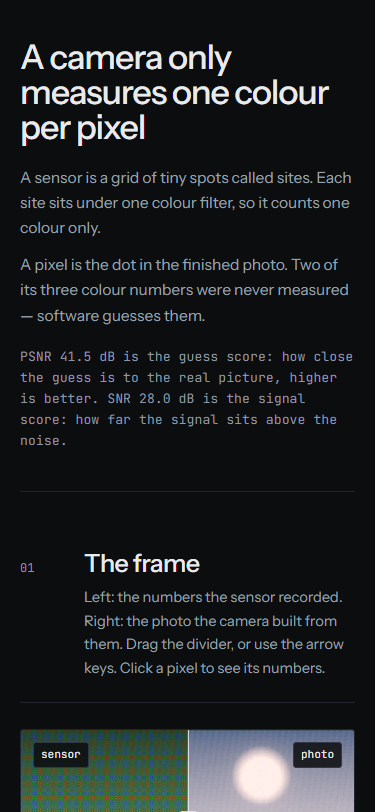
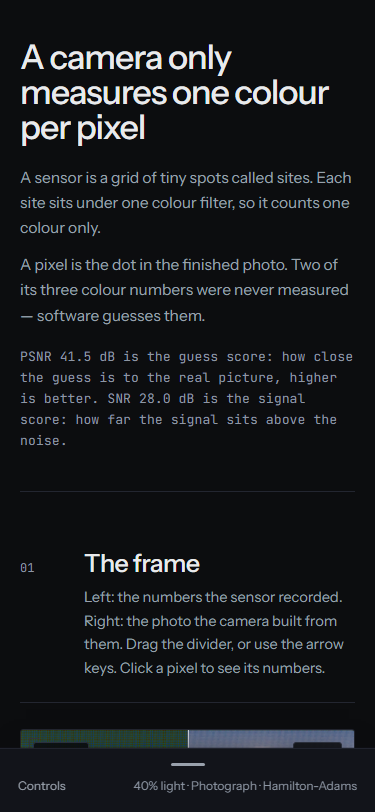
Give the bench draft a control sheet on phones
The rail was hidden below 760px, so a phone had no controls at all. It now lies along the bottom edge as a sheet: collapsed to a handle that shows the current settings, opened with one tap.

Changed region(s): [[0.0293, 0.8929, 0.968, 1.0]]

diff --git a/design-demos/dir-1.html b/design-demos/dir-1.html
@@ -75,6 +75,46 @@
         z-index: 5;
       }
 
+      .rail-body {
+        display: flex;
+        flex-direction: column;
+        gap: 13px;
+      }
+
+      /* The handle only exists once the rail turns into a bottom sheet. */
+      .rail-handle {
+        display: none;
+        width: 100%;
+        padding: 0;
+        border: 0;
+        background: none;
+        color: inherit;
+        font: inherit;
+        text-align: left;
+        cursor: pointer;
+      }
+
+      .handle-bar {
+        display: block;
+        width: 34px;
+        height: 3px;
+        margin: 0 auto 10px;
+        border-radius: 2px;
+        background: var(--dim);
+      }
+
+      .handle-text {
+        display: flex;
+        justify-content: space-between;
+        gap: 12px;
+        font-size: 12px;
+        color: var(--dim);
+      }
+
+      .handle-sum {
+        color: var(--mute);
+      }
+
       .brand {
         display: flex;
         align-items: center;
@@ -601,15 +641,33 @@
         .head p { grid-column: 2; }
         .body { padding-left: 0; }
         .filters, .guess, .print, .cover { grid-template-columns: minmax(0, 1fr); }
-        /* On a phone the rail would eat the first screen; the controls come back
-           as the strip at the bottom of the real build. */
-        .rail { display: none; }
-        .rail .brand { flex: 0 0 100%; padding-bottom: 4px; }
-        .rail .group { flex: 0 0 auto; min-width: 168px; }
-        .rail .ctl { min-width: 150px; }
-        .rail .group:nth-of-type(3) { display: none; }
-        .rail .group:nth-of-type(1) .ctl:nth-child(4),
-        .rail .group:nth-of-type(1) .ctl:nth-child(5) { display: none; }
+
+        /* The rail cannot sit beside the text on a phone, so it lies down along the
+           bottom edge as a sheet: collapsed to its handle, opened with one tap. */
+        .rail {
+          position: fixed;
+          inset: auto 0 0 0;
+          width: auto;
+          max-height: 74vh;
+          border-right: 0;
+          border-top: 1px solid var(--rule);
+          padding: 10px 18px 16px;
+          gap: 0;
+          z-index: 40;
+          box-shadow: 0 -14px 34px -26px rgba(0, 0, 0, 0.95);
+          overflow: hidden;
+          transform: translateY(calc(100% - 64px));
+          transition: transform 240ms cubic-bezier(0.22, 1, 0.36, 1);
+        }
+        .rail[data-open="true"] {
+          transform: translateY(0);
+          overflow-y: auto;
+        }
+        .rail .brand { display: none; }
+        .rail-handle { display: block; padding: 4px 0 14px; }
+        .rail .group { margin-bottom: 12px; }
+        .rail .live { margin-top: 4px; }
+        .shell { padding-bottom: 84px; }
         .readrow { grid-template-columns: repeat(2, minmax(0, 1fr)); }
         .readrow div:nth-child(2) { border-right: 0; }
         .chans { grid-template-columns: minmax(0, 1fr); }
@@ -624,6 +682,15 @@
         <span class="mark" aria-hidden="true"><i></i><i></i><i></i><i></i></span>
         The Mosaic
       </div>
+
+      <!-- On a phone the rail becomes a sheet that rests at the bottom edge, so
+           the controls are one tap away instead of gone. -->
+      <button class="rail-handle" type="button" aria-expanded="false" aria-controls="rail-body">
+        <span class="handle-bar" aria-hidden="true"></span>
+        <span class="handle-text">Controls <span class="handle-sum">40% light · Photograph · Hamilton–Adams</span></span>
+      </button>
+
+      <div class="rail-body" id="rail-body">
 
       <div class="group">
         <h2>Light</h2>
@@ -685,6 +752,7 @@
         <div><span class="k">Signal per site</span><span>1112 e⁻</span></div>
         <div><span class="k">Blown out</span><span>0.0 %</span></div>
       </div>
+      </div><!-- /rail-body -->
     </aside>
 
     <main class="page">
@@ -949,5 +1017,42 @@
         <span>Nothing leaves this device.</span>
       </footer>
     </main>
+
+    <script>
+      // The sheet handle: opens and closes the control panel on a phone, and keeps
+      // its one-line summary honest while the controls move.
+      const rail = document.querySelector('.rail');
+      const handle = document.querySelector('.rail-handle');
+      const summary = document.querySelector('.handle-sum');
+      const lightOut = document.querySelector('.group output');
+      const scene = document.querySelector('select[aria-label="Scene"]');
+      const demosaic = document.querySelector('select[aria-label="Demosaic"]');
+
+      handle.addEventListener('click', () => {
+        const open = rail.dataset.open === 'true';
+        rail.dataset.open = String(!open);
+        handle.setAttribute('aria-expanded', String(!open));
+      });
+
+      function sync() {
+        summary.textContent = [
+          `${lightOut.textContent.trim()} light`,
+          scene ? scene.value : '',
+          demosaic ? demosaic.value : '',
+        ].filter(Boolean).join(' · ');
+      }
+
+      rail.addEventListener('input', sync);
+      rail.addEventListener('change', sync);
+
+      // Light level is the one slider the summary quotes, so it has to move.
+      const light = rail.querySelector('.group input[type="range"]');
+      light.addEventListener('input', () => {
+        lightOut.textContent = `${light.value}%`;
+        sync();
+      });
+
+      sync();
+    </script>
   </body>
 </html>
